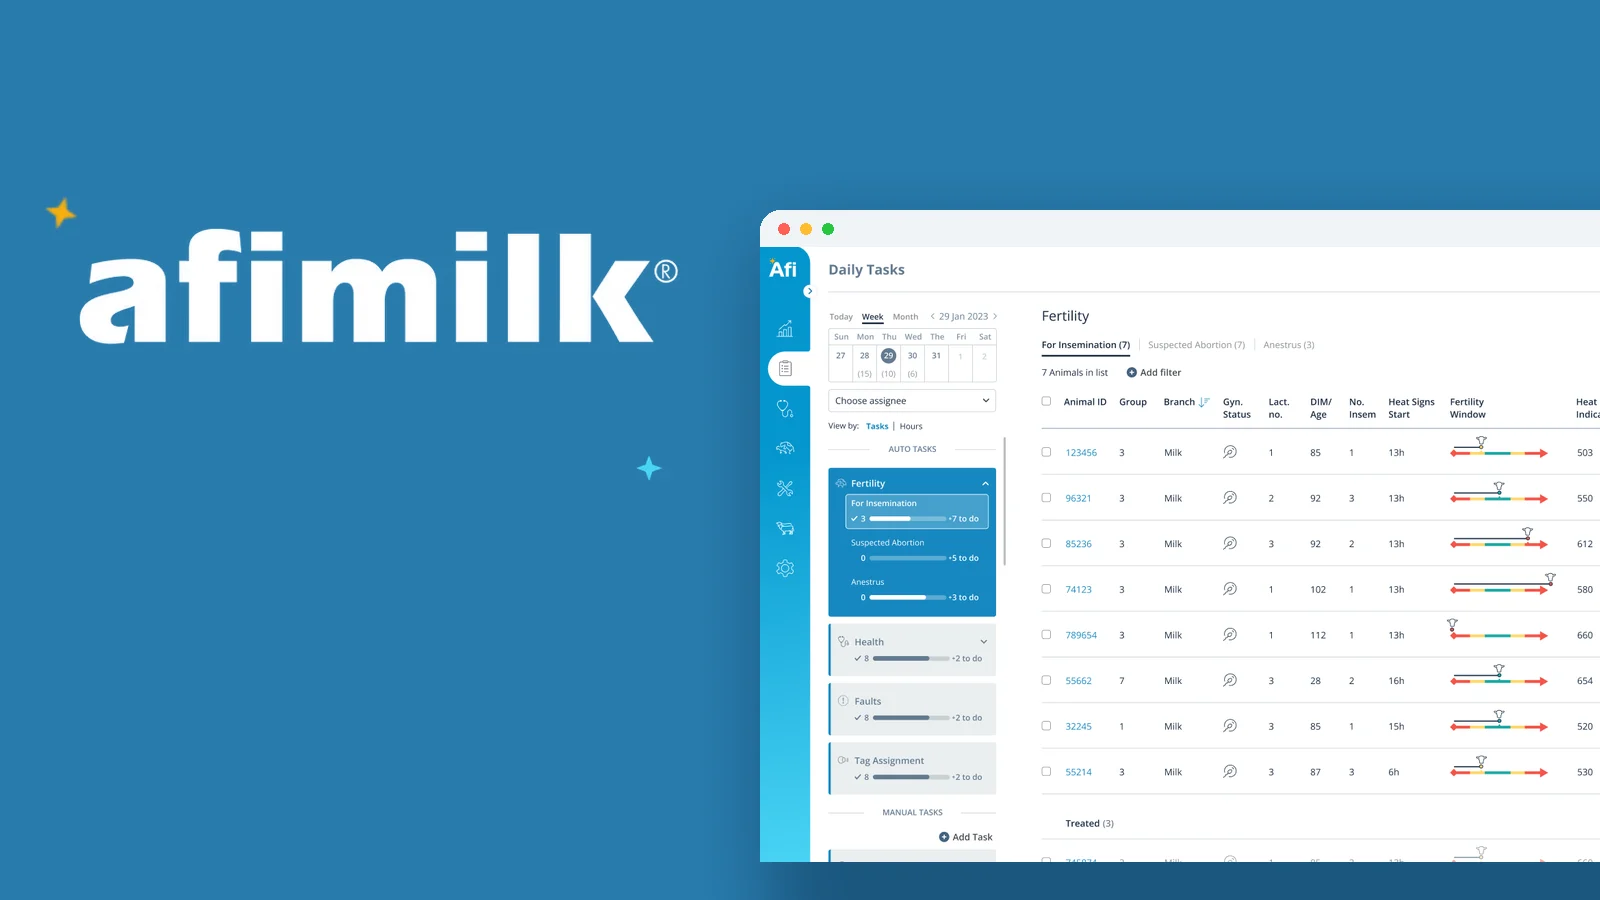
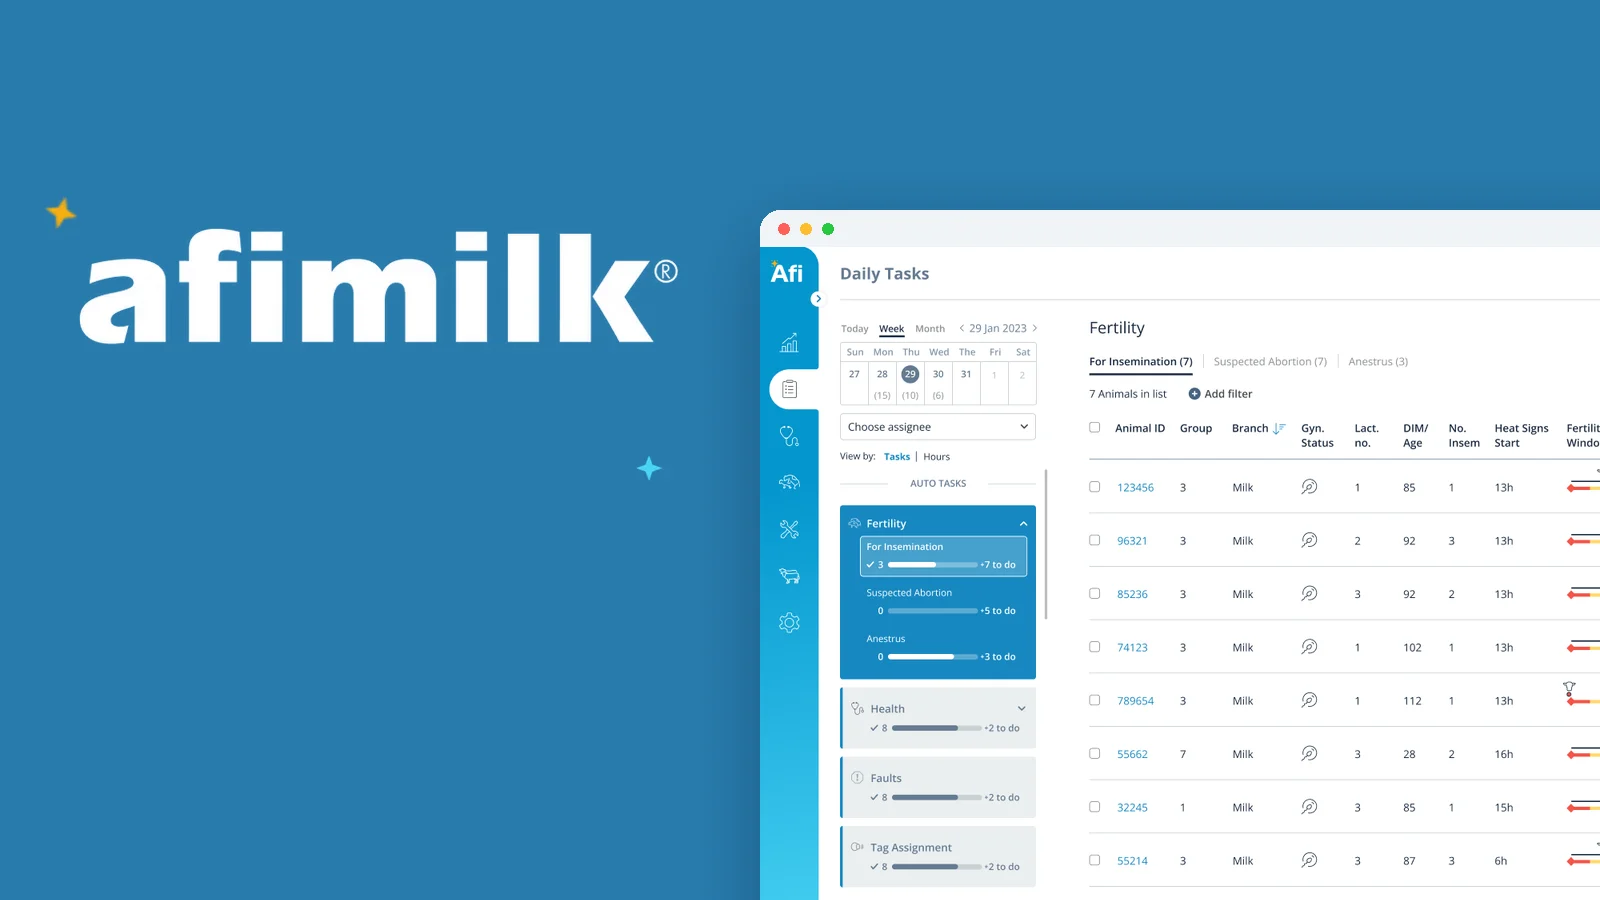
Covers: run off the bottom edge, second screen on the Farmers card
Claude-Session: https://claude.ai/code/session_01U3LnkADmWK6BWBvsiVpdjW

diff --git a/scripts/afimilk-covers.py b/scripts/afimilk-covers.py
@@ -14,7 +14,7 @@ import numpy as np
 ROOT = Path(__file__).resolve().parent.parent
 IMG = ROOT / 'public' / 'images'
 W, H = 1600, 900
-SCREEN_H = 616        # matches scripts/client-covers.py
+SCREEN_H = 720        # matches scripts/client-covers.py; tall enough to run off the bottom
 BG = (40, 123, 172)          # Afimilk brand blue, sampled from their own artwork
 GOLD = (252, 176, 13)
 CYAN = (75, 214, 244)
@@ -81,10 +81,14 @@ def drop(cv, layer, x, y, blur=34, strength=120):
     return cv
 
 
-# ---- Farmers: one app screen, running off the right and bottom like the windows ----
+# ---- Farmers: two app screens, both starting on the same line as every other cover ----
 cv = base()
-ph = phone(ROOT / 'scripts' / 'assets' / 'farmers-tasks.png', 860)
-cv = drop(cv, ph, int(760 + (W - 760 - ph.width) / 2), 210)
+front = phone(ROOT / 'scripts' / 'assets' / 'farmers-tasks.png', 860)
+back = phone(ROOT / 'scripts' / 'assets' / 'farmers-tag.png', 860)
+overlap = 96
+x0 = int(760 + (W - 760 - (front.width + back.width - overlap)) / 2)
+cv = drop(cv, back, x0 + front.width - overlap, 210)
+cv = drop(cv, front, x0, 210)
 cv.save(IMG / 'farmers-1600.webp', quality=86)
 cv.resize((800, 450), Image.LANCZOS).save(IMG / 'farmers-800.webp', quality=86)
 print('wrote farmers')

diff --git a/scripts/client-covers.py b/scripts/client-covers.py
@@ -14,7 +14,8 @@ ROOT = Path(__file__).resolve().parent.parent
 IMG = ROOT / 'public' / 'images'
 LOGO = Path(__file__).resolve().parent / 'assets'
 W, H = 1600, 900
-SCREEN_H = 616        # one window height across every cover
+SCREEN_H = 720        # one window height across every cover, and tall enough that the
+                      # window runs off the bottom instead of ending in a soft edge
 
 
 def window(shot, screen_h, radius=20, bar=36):

diff --git a/CHANGELOG.md b/CHANGELOG.md
@@ -1,5 +1,13 @@
 # Changelog
 
+## 2026-10-19 · Cover system finished
+
+- Windows and phone frames are all 720px tall and start at the same point (760, 210), so
+  they run off the bottom instead of ending in a soft shadow line above it.
+- Sized by height rather than width, so screenshots with different aspect ratios still
+  come out the same size on the card.
+- Farmers: the Tag assignment screen sits behind the Tasks screen.
+
 ## 2026-10-18 · One cover system for all five cards
 
 - Every client cover now follows the same pattern: a flat field in the client's own colour,
